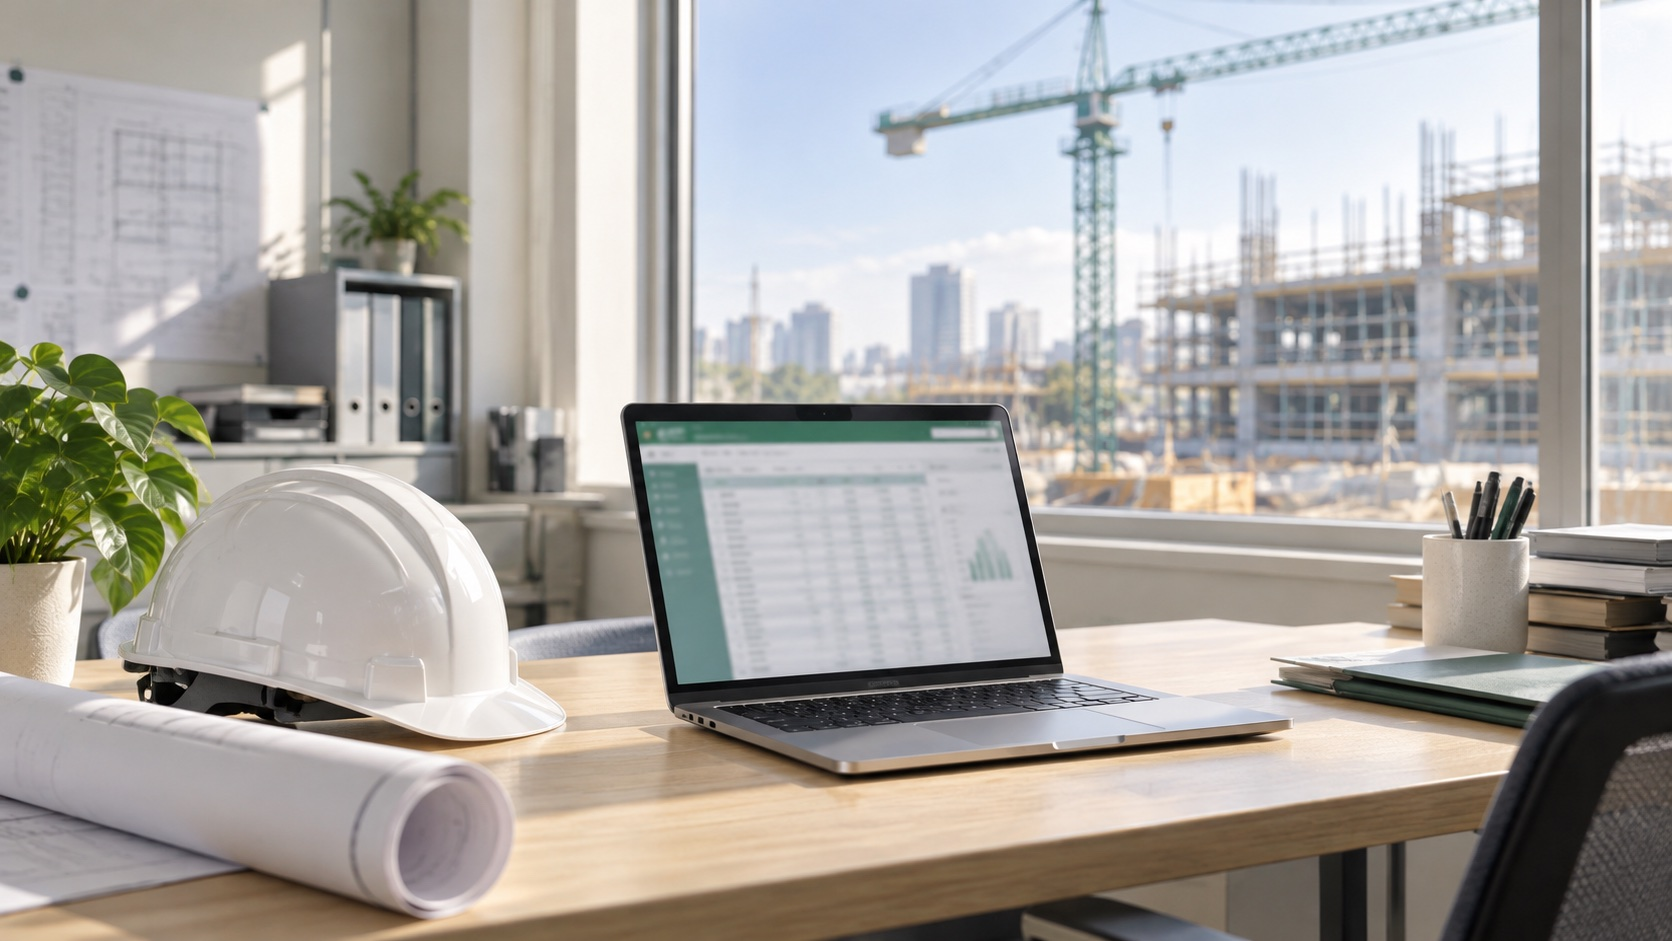
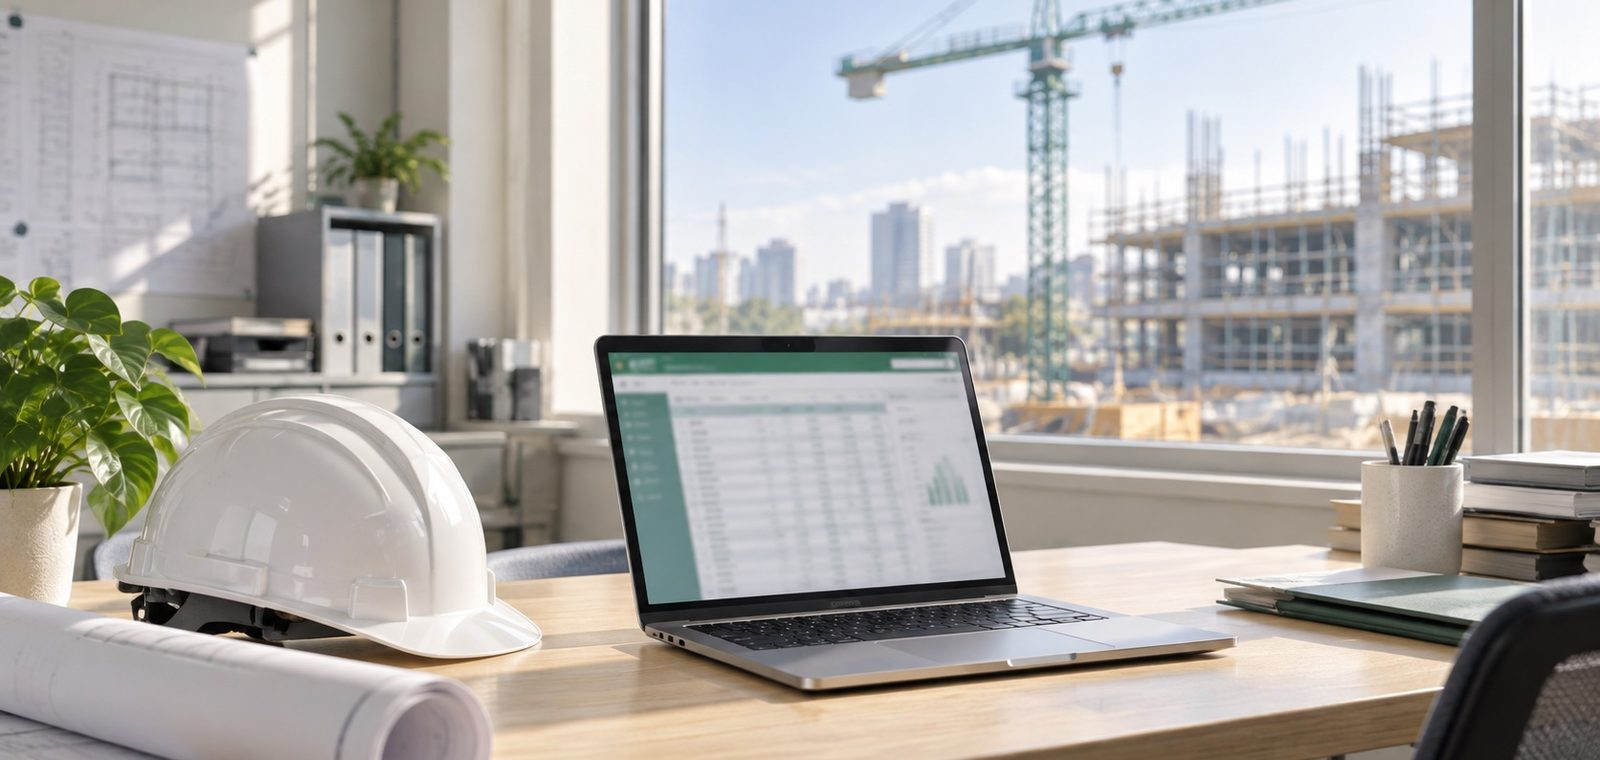
製品ページの見出し画像を写真（現場事務所とクレーン）に差し替え、OG画像も更新。旧イラストは削除

diff --git a/construction/index.html b/construction/index.html
@@ -319,7 +319,7 @@
           <a href="../" class="lp-cta is-ghost">ほかの業務の例を見る</a>
         </div>
         <figure class="hero-fig">
-          <img src="../assets/images/construction/hero.jpg" width="1600" height="700" alt="紙の工事台帳と領収書の束が、1つの画面と会計用ファイルにまとまるイメージ" />
+          <img src="../assets/images/construction/hero-photo.jpg" width="1600" height="760" alt="現場事務所の机。ノートPCの工事台帳の画面と、ヘルメット・図面。窓の向こうにクレーンと足場" fetchpriority="high" />
         </figure>
         <div class="facts">
           <div class="fact"><b>建設会社の経理専用</b><span>工事台帳のための画面。給与や販売管理は混ぜません</span></div>
